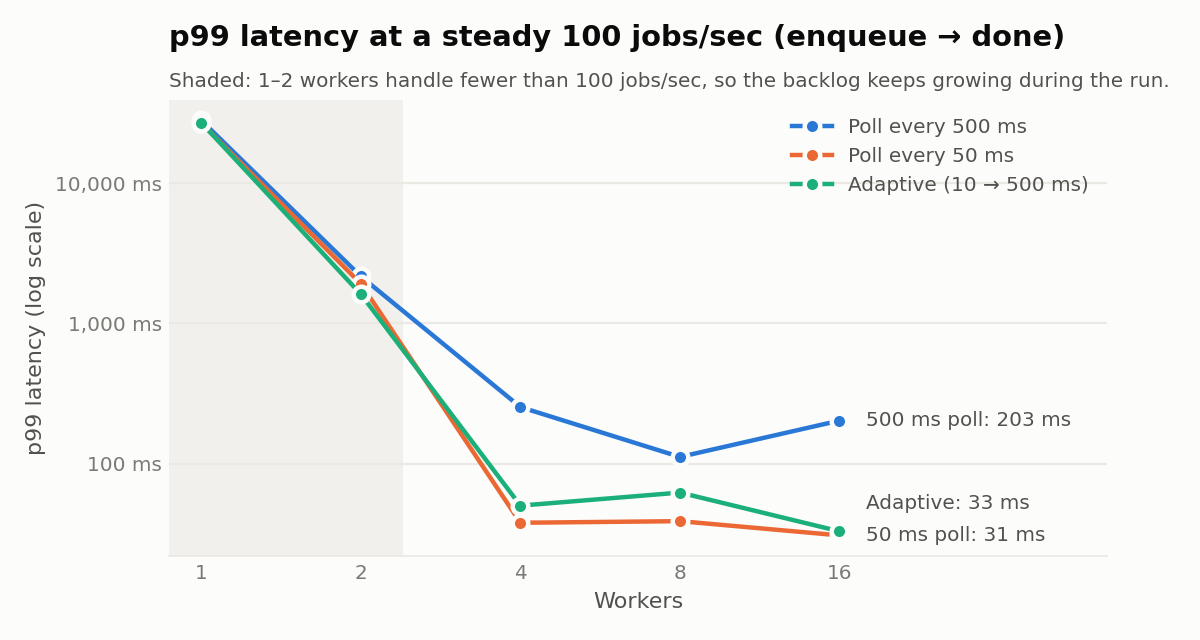
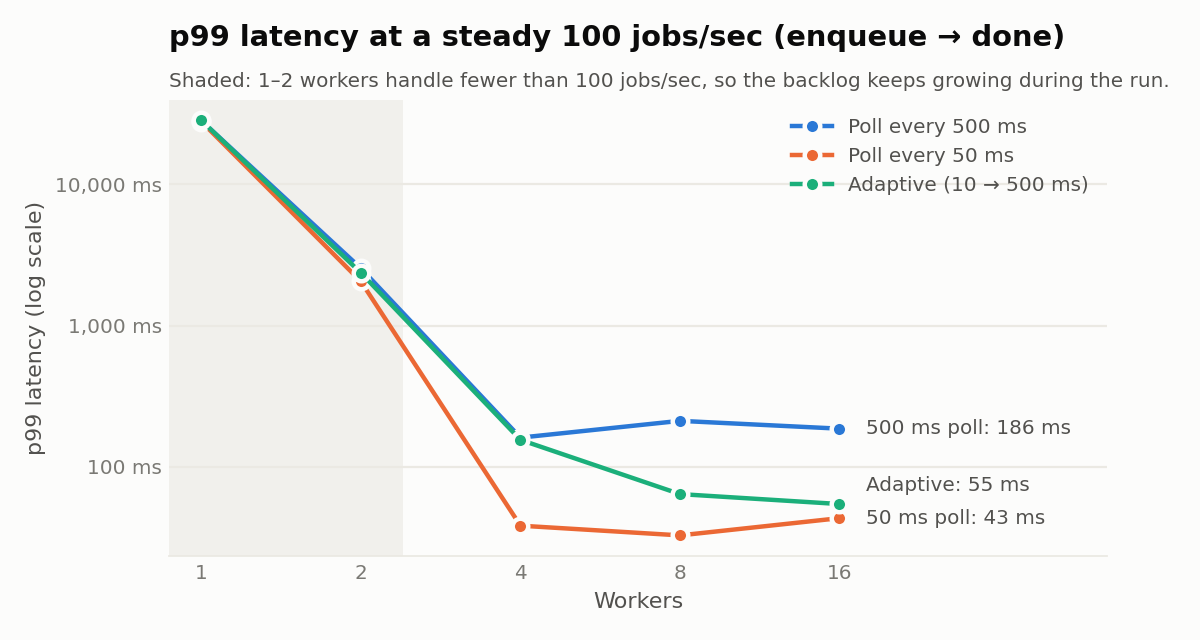
Re-run benchmarks and failure test on the current (priority) code
Chaos: 1,000 jobs, 20 worker + 5 history-writer SIGKILLs, 0 lost.
Throughput 38-668 jobs/s (1-16 workers). Adaptive polling p99 was less
consistent this run (155 ms at 4 workers); README and decision 13 say so.

diff --git a/README.md b/README.md
@@ -96,7 +96,7 @@ Settings (environment variables): `REDIS_URL`, `QUEUE_NAME`, `LEASE_SECONDS`.
 
 ## Benchmarks
 
-All numbers below come from real runs ([raw results](bench/results/)), measured before priority was added (which changed how jobs are leased), on an Apple M2 MacBook (8 cores), with every service running in Docker Compose. Workers run 20 ms jobs (`sleep`), standing in for I/O-bound work like an API call.
+All numbers below come from real runs ([raw results](bench/results/)) of the current code on an Apple M2 MacBook (8 cores), with every service running in Docker Compose. Workers run 20 ms jobs (`sleep`), standing in for I/O-bound work like an API call.
 
 ### Throughput scales almost linearly with workers
 
@@ -104,15 +104,15 @@ All numbers below come from real runs ([raw results](bench/results/)), measured 
 
 | Workers | Jobs/sec | Ideal | Efficiency |
 |---|---|---|---|
-| 1 | 39 | 50 | 78% |
-| 2 | 84 | 100 | 84% |
-| 4 | 172 | 200 | 86% |
-| 8 | 327 | 400 | 82% |
-| 16 | 642 | 800 | 80% |
+| 1 | 38 | 50 | 76% |
+| 2 | 81 | 100 | 81% |
+| 4 | 176 | 200 | 88% |
+| 8 | 331 | 400 | 83% |
+| 16 | 667 | 800 | 83% |
 
-"Ideal" is workers ÷ 20 ms, assuming zero queue overhead. Efficiency stays around 80% from 1 to 16 workers, so the queue itself isn't the bottleneck at this scale. The gap is most likely fixed per-job overhead in the worker (several Redis round trips per job: lease, read the job, ack; plus starting a heartbeat thread), not yet profiled.
+"Ideal" is workers ÷ 20 ms, assuming zero queue overhead. Efficiency stays around 80% from 1 to 16 workers, so the queue itself isn't the bottleneck at this scale. The gap is most likely fixed per-job overhead in the worker (several Redis round trips per job: lease, read the job, checkpoint, ack; plus starting a heartbeat thread), not yet profiled.
 
-### Latency: adaptive polling gets fast pickup without the idle cost
+### Latency: adaptive polling vs. fixed intervals
 
 ![Latency chart](docs/bench-latency.png)
 
@@ -120,26 +120,26 @@ Jobs arrive at a steady 100/sec for 20 seconds. Latency is enqueue → done, tim
 
 | Workers | Poll every 500 ms | Poll every 50 ms | Adaptive (default) |
 |---|---|---|---|
-| 1 | 12,996 / 28,060 ms | 11,922 / 26,830 ms | 12,109 / 27,006 ms |
-| 2 | 1,188 / 2,166 ms | 900 / 1,919 ms | 810 / 1,616 ms |
-| 4 | 41 / 253 ms | 26 / 38 ms | 26 / 50 ms |
-| 8 | 36 / 112 ms | 24 / 39 ms | 25 / 62 ms |
-| 16 | 41 / 203 ms | 24 / 31 ms | 24 / 33 ms |
+| 1 | 12,815 / 28,178 ms | 12,347 / 27,738 ms | 12,820 / 28,277 ms |
+| 2 | 1,313 / 2,540 ms | 984 / 2,050 ms | 1,272 / 2,358 ms |
+| 4 | 46 / 161 ms | 26 / 38 ms | 26 / 155 ms |
+| 8 | 45 / 212 ms | 25 / 33 ms | 26 / 64 ms |
+| 16 | 36 / 186 ms | 24 / 43 ms | 25 / 55 ms |
 
-Workers can't be notified of new jobs (sorted sets have no blocking pop, [DECISIONS.md](DECISIONS.md) #2), so idle workers poll. A job that arrives while a worker is waiting sits ready until the worker checks again, which is why a fixed 500 ms interval shows up in p99.
+Workers can't be notified of new jobs (sorted sets have no blocking pop, [DECISIONS.md](DECISIONS.md) #2), so idle workers poll. A job that arrives while a worker is waiting sits ready until the worker checks again.
 
 Faster polling costs Redis work while workers are idle. Measured with 16 idle workers:
 
 | Polling mode | Redis commands/sec (idle) |
 |---|---|
-| Every 500 ms | 144 |
-| Every 50 ms | 952 |
-| **Adaptive** | **146** |
+| Every 500 ms | 225 |
+| Every 50 ms | 1,566 |
+| **Adaptive** | **228** |
 
-**Adaptive polling** (the default) waits 10 ms after the queue goes empty and doubles the wait after each empty check, up to 500 ms. Finding a job resets it. That gives roughly the latency of 50 ms polling at the idle cost of 500 ms polling. (Counts include the commands each Lua script runs inside Redis.)
+**Adaptive polling** (the default) waits 10 ms after the queue goes empty and doubles the wait after each empty check, up to 500 ms; finding a job resets it. It costs the same idle load as 500 ms polling, about 7× less than 50 ms polling. Its p50 matches 50 ms polling, but its p99 is less consistent: 155 ms at 4 workers in this run (50 ms in an earlier run), because at moderate load a worker can be mid-backoff when work arrives. Counts include the commands each Lua script runs inside Redis.
 
 - 1–2 workers can't keep up with 100 jobs/sec, so the backlog grows and latency is measured in seconds in every mode.
-- p99 varies between runs: in an earlier run, 500 ms polling at 16 workers measured 71 ms instead of 203 ms. Compare modes within the same run.
+- p99 varies between runs, so compare modes within the same run.
 
 ### Zero job loss while workers are killed
 
@@ -147,11 +147,11 @@ Faster polling costs Redis work while workers are idle. Measured with 16 idle wo
 
 | Jobs submitted | Completed | Lost | Worker kills | History writer kills | Jobs interrupted mid-run | Recorded done twice |
 |---|---|---|---|---|---|---|
-| 1,000 | 1,000 | **0** | 20 | 5 | 11 | 0 |
+| 1,000 | 1,000 | **0** | 20 | 5 | 13 | 0 |
 
-Interrupted jobs were recovered by lease expiry and finished on a later attempt. Some kills hit idle workers, which is why there are fewer interrupted jobs than kills. Every job also appears exactly once in PostgreSQL history, despite the history writer being killed 5 times.
+Interrupted jobs were recovered by lease expiry and finished on a later attempt. Some kills hit idle workers, which is why there are fewer interrupted jobs than kills. Every job appears exactly once in PostgreSQL history, despite the history writer being killed 5 times.
 
-Reproduce: `docker compose up -d --build`, then `python -m bench.benchmark`, `python -m bench.chaos`, and `python -m bench.plot`.
+Reproduce: `docker compose up -d --build`, then `python -m bench.benchmark`, `python -m bench.idle_load`, `python -m bench.chaos`, and `python -m bench.plot`.
 
 ## Real-world use: Whisk's AI baking assistant
 

diff --git a/DECISIONS.md b/DECISIONS.md
@@ -114,6 +114,7 @@ Each entry records a choice, the alternatives considered, and why.
   - *Fixed 100 ms*: a middle ground that's still a fixed tradeoff.
 - **Why**: Measured, it gets most of 50 ms polling's latency (p99 33–62 ms) at 500 ms polling's idle cost (146 vs 144 commands/sec). It's the same exponential backoff idea as job retries (#5).
 - **Revisited after benchmarking**: Fixed 50 ms had the best p99 by up to about 25 ms, and at 16 workers its idle cost (about 950 commands/sec) is under 1% of Redis's capacity. I kept adaptive anyway: the idle cost of fixed polling grows with every worker (about 60,000 commands/sec at 1,000 idle workers), and the real jobs in Phase 4 (Claude API calls) take seconds, so 25 ms is about 1% of a job.
+- **Re-measured after priority (#18)**: p99 at 4–16 workers was 155, 64 and 55 ms (fixed 50 ms: 38, 33, 43 ms), so adaptive's p99 is less consistent than the first run suggested. Idle load stayed equal to 500 ms polling (228 vs 225 commands/sec; fixed 50 ms: 1566). Every empty check now costs more Redis commands because of the priority step, but the ratio between modes held.
 - **Tradeoffs accepted**: Slightly worse p99 than fixed 50 ms right after an idle stretch, because a backed-off worker can be mid-wait (up to 500 ms) when work arrives. Still no true push notification, which is the cost of choosing sorted sets in #2.
 
 ## 14. Phase 4: Whisk uses task-queue as a library
